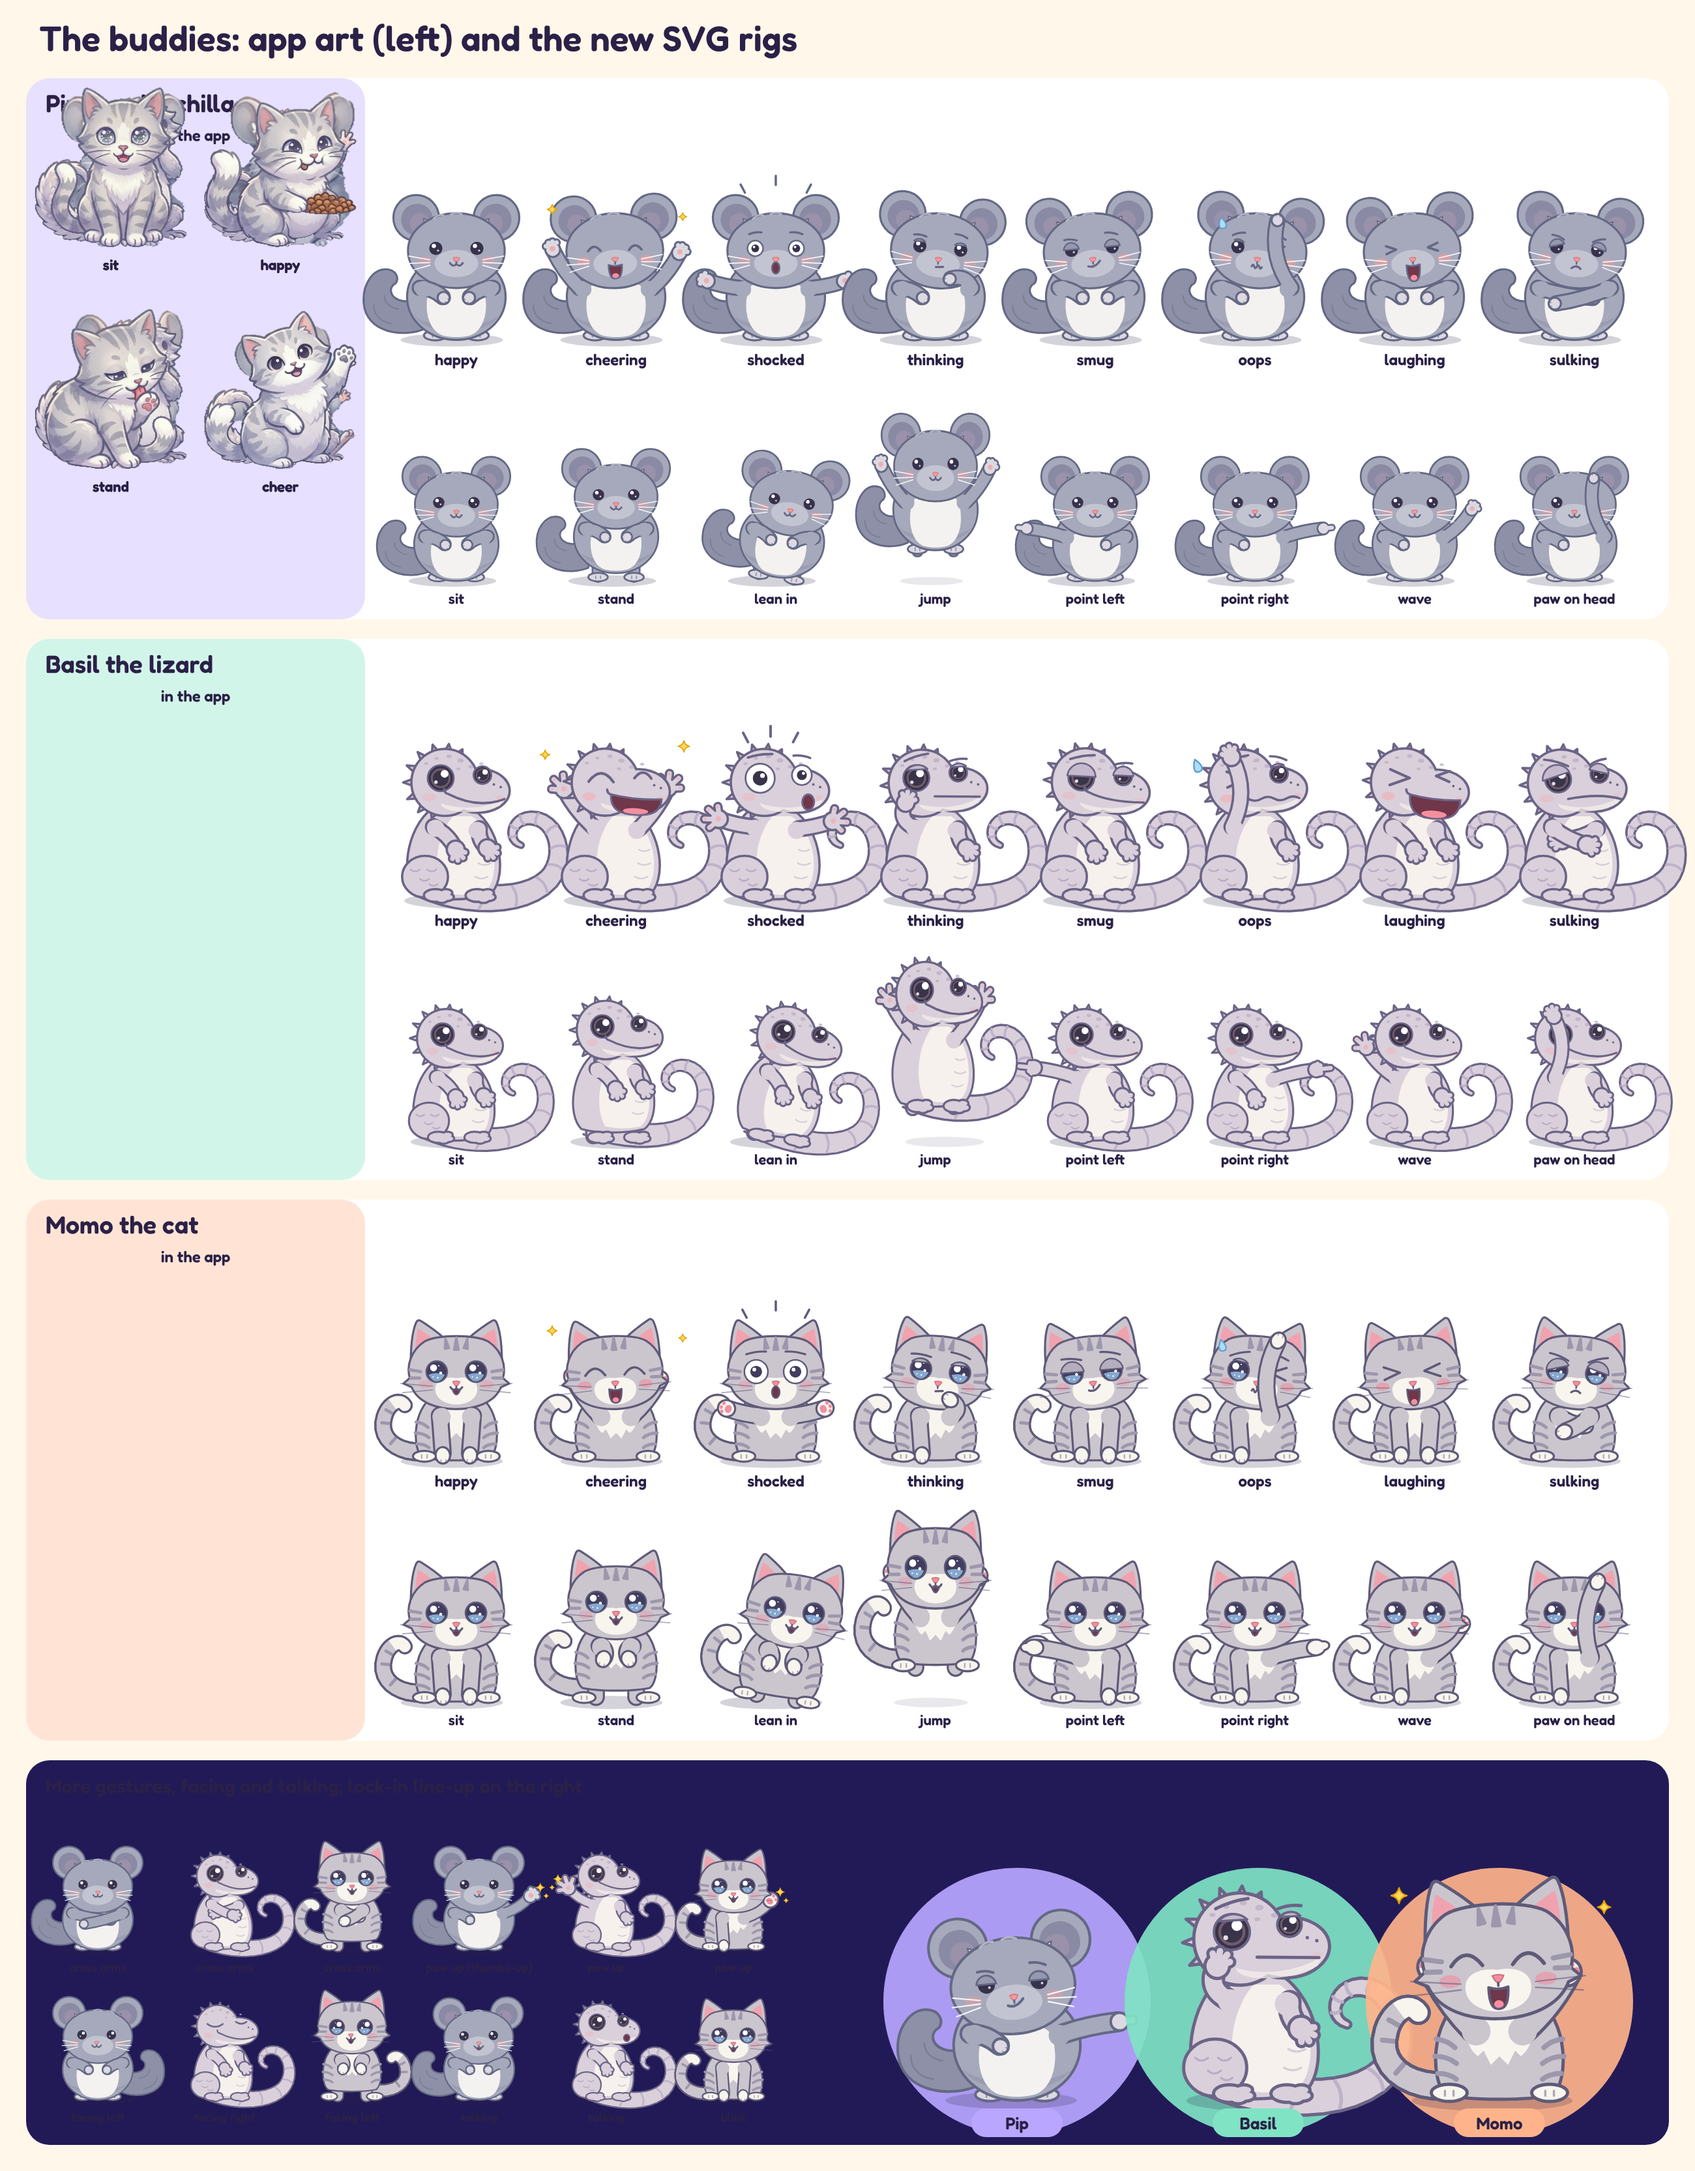
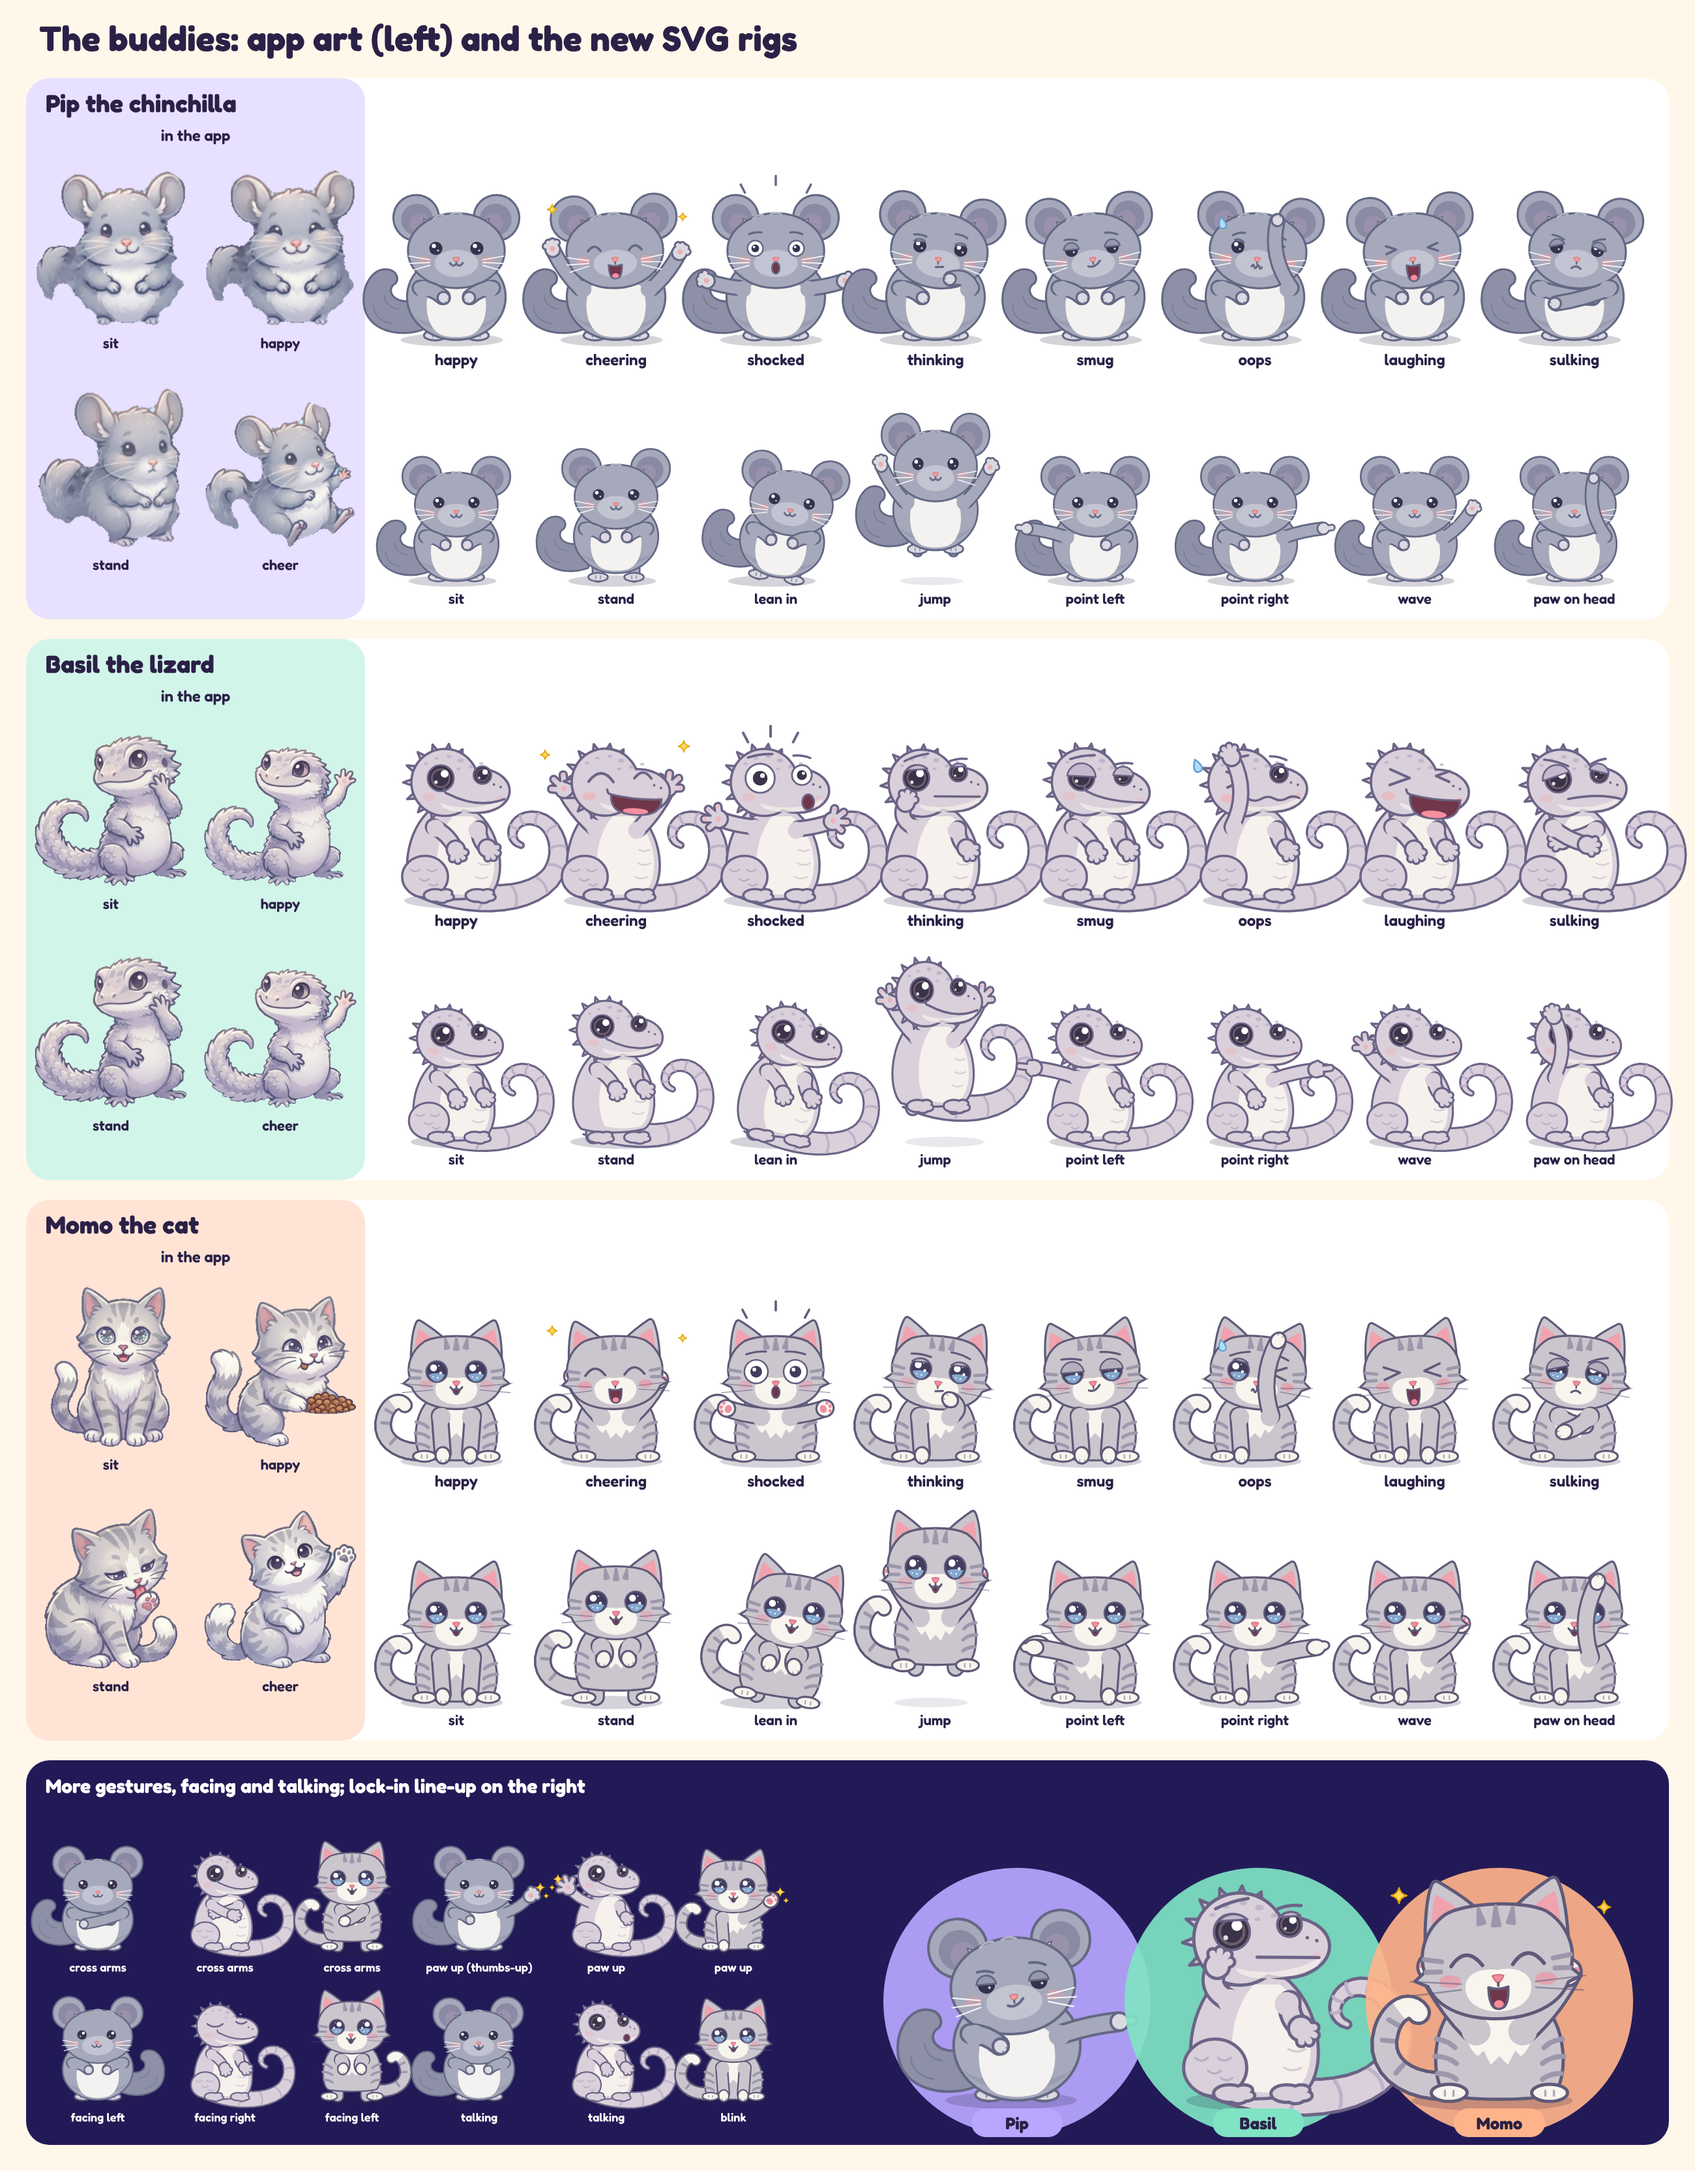
WIP: Explained revamp (animators working)
Claude-Session: https://claude.ai/code/session_017vcscXTweEdXk7zMTDrzTD

diff --git a/production/workspace/explained2/characters/sheet.html b/production/workspace/explained2/characters/sheet.html
@@ -4,7 +4,7 @@
 <style>
   @font-face{font-family:Fredoka;font-weight:600;src:url(../fonts/node_modules/@fontsource/fredoka/files/fredoka-latin-600-normal.woff2) format("woff2")}
   @font-face{font-family:Fredoka;font-weight:700;src:url(../fonts/node_modules/@fontsource/fredoka/files/fredoka-latin-700-normal.woff2) format("woff2")}
-  html,body{margin:0;background:#FFF8EA;overflow:hidden} svg{display:block} text{font-family:Fredoka;font-weight:600;fill:#2B2147}
+  html,body{margin:0;background:#FFF8EA;overflow:hidden} svg{display:block} text{font-family:Fredoka}
 </style></head><body>
 <svg id="v" xmlns="http://www.w3.org/2000/svg" width="2600" height="3330" viewBox="0 0 2600 3330"></svg>
 <script src="buddies.js"></script>
@@ -16,7 +16,7 @@ const T0 = 1.0, H = 230;
 ["pip", "basil", "momo"].forEach((who, r) => { const y0 = 120 + r * 860, k = B.REL[who];
   out += `<rect x="40" y="${y0}" width="${W - 80}" height="830" rx="36" fill="#fff"/><rect x="40" y="${y0}" width="520" height="830" rx="36" fill="${AURA[who]}" opacity=".35"/>` + T(70, y0 + 52, NAME[who], 38, "start", 700);
   out += T(300, y0 + 96, "in the app", 24);
-  [["sit", 170, 380], ["happy", 430, 380], ["stand", 170, 720], ["cheer", 430, 720]].forEach(([p, x, y]) => { out += `<image href="app/${PET[who]}-${p}.png" x="${x - 120}" y="${y - 250}" width="240" height="250" preserveAspectRatio="xMidYMax meet"/>` + T(x, y + 34, p, 22); });
+  [["sit", 170, 380], ["happy", 430, 380], ["stand", 170, 720], ["cheer", 430, 720]].forEach(([p, x, yy]) => { const y = y0 + yy; out += `<image href="app/${PET[who]}-${p}.png" x="${x - 120}" y="${y - 250}" width="240" height="250" preserveAspectRatio="xMidYMax meet"/>` + T(x, y + 34, p, 22); });
   // 8 expressions
   B.EXPRESSIONS.forEach((e, i) => { const x = 700 + i * 245, y = y0 + 400; out += B.draw(who, x, y, H * k, T0, { expr: e }) + T(x, y + 40, e, 24); });
   // poses, gestures, facing
